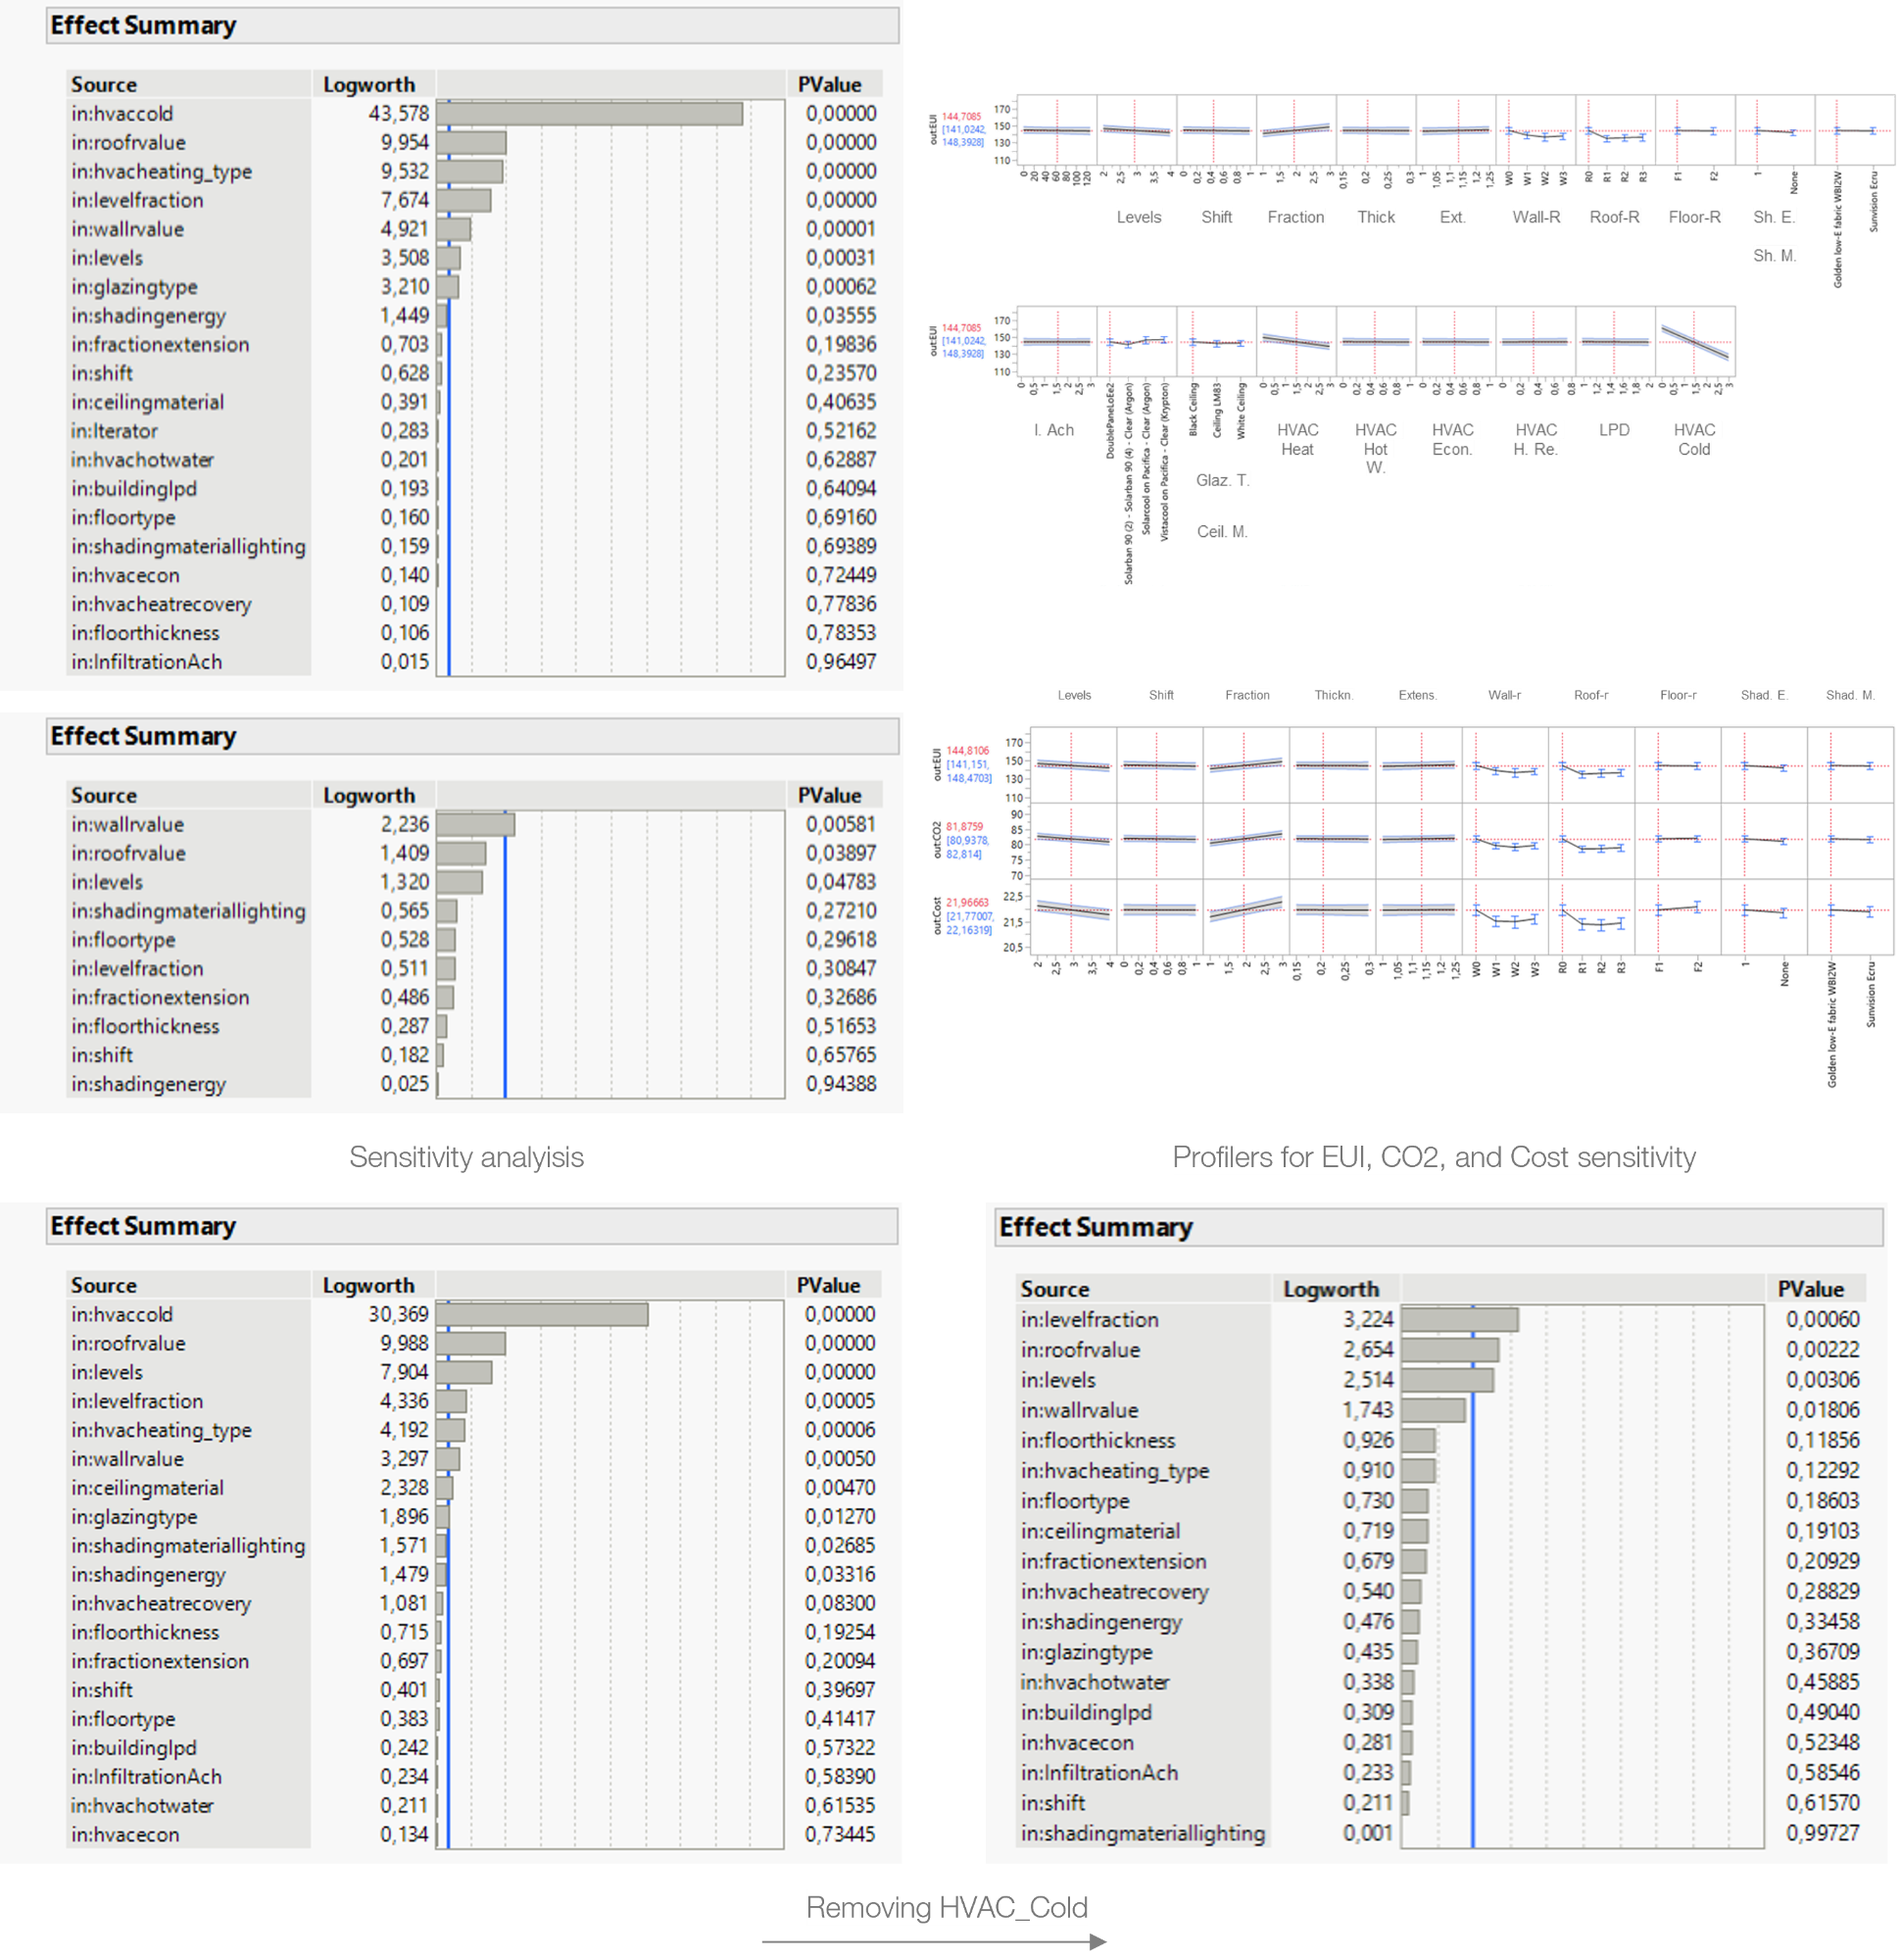
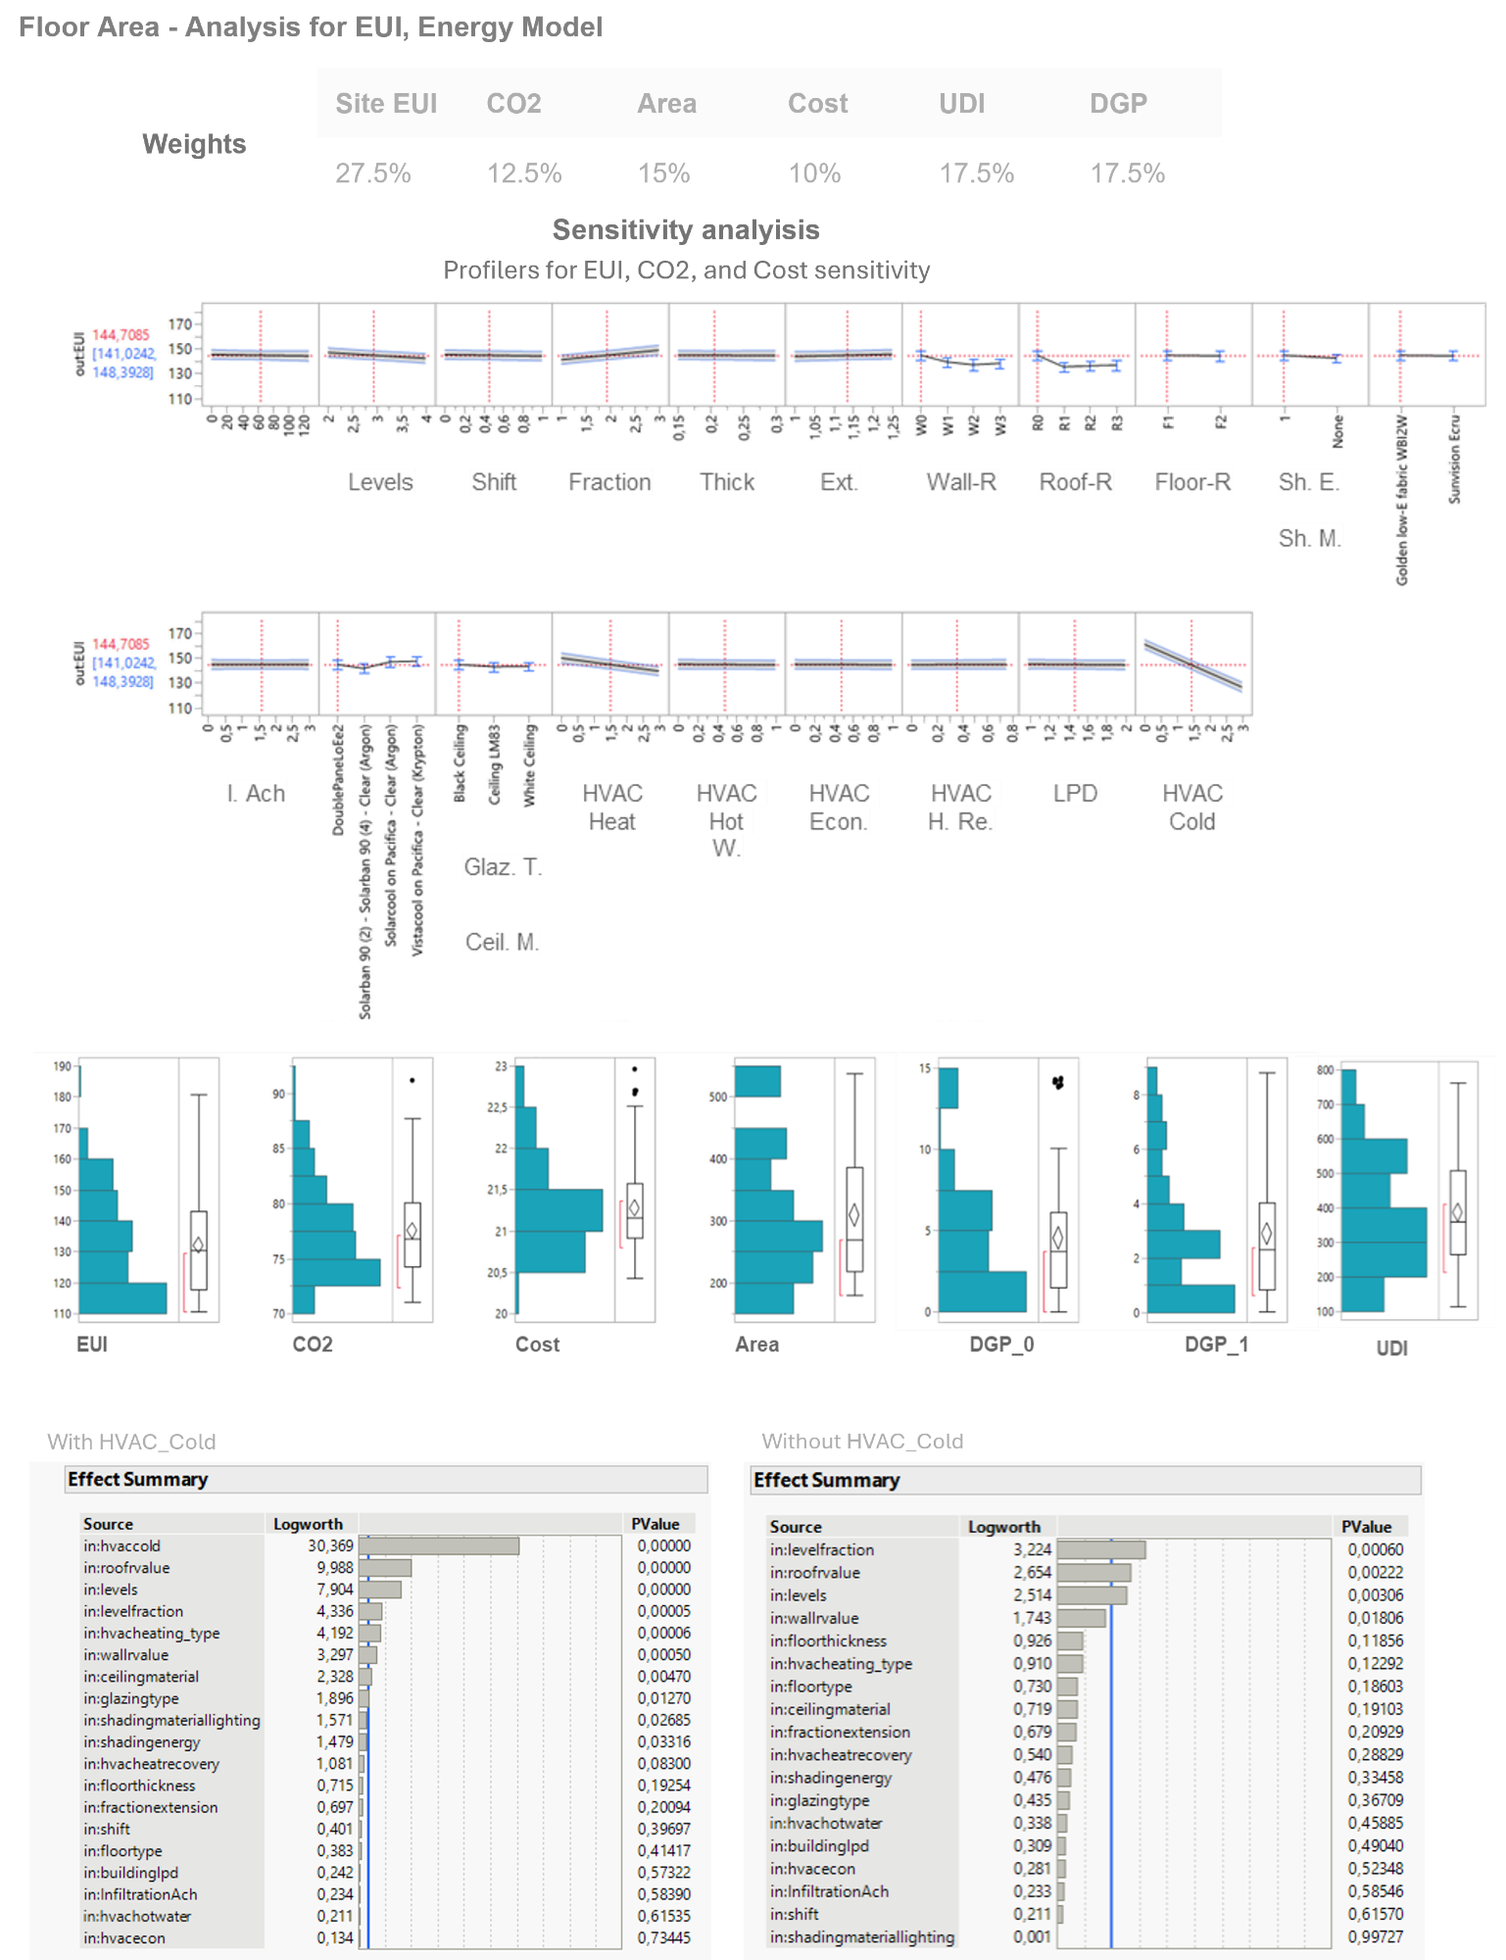
Update Design Space Exploration images and remove rainwater section
- Remove retrofitting strategy heading image
- Add three envelope layer GIFs side by side after weather files
- Add building geometry settings image
- Replace design space construction and results images
- Remove rainwater harvesting section

diff --git a/_sass/_projects_sidebar.scss b/_sass/_projects_sidebar.scss
@@ -209,6 +209,30 @@ img, figure img, .img-fluid {
   box-shadow: none !important;
 }
 
+.image-row-3 {
+  display: flex;
+  flex-direction: row;
+  align-items: stretch;
+  gap: 1rem;
+  width: 100%;
+  margin: 1.5rem 0;
+
+  .image-row-3__item {
+    flex: 1 1 33.333%;
+    min-width: 0;
+    width: 33.333%;
+  }
+
+  figure,
+  picture,
+  img {
+    width: 100% !important;
+    max-width: 100% !important;
+    height: auto;
+    display: block;
+  }
+}
+
 .iecc-image-pair {
   display: flex;
   flex-direction: row;

diff --git a/_projects/1_project.md b/_projects/1_project.md
@@ -40,17 +40,8 @@ The project focuses on designing an exploration for retrofitting 792 Donald Lee 
 
 <div class="row mt-4">
     <div class="col-sm mt-3 mt-md-0">
-        {% include figure.liquid loading="eager" path="assets/img/retrofitting-strategy.png" title="Retrofitting Strategy Statement" class="img-fluid rounded" %}
-    </div>
-</div>
-
-<div class="row mt-4">
-    <div class="col-sm mt-3 mt-md-0">
         {% include figure.liquid loading="eager" path="assets/img/retrofitting-table.png" title="Retrofitting components and upgrades" class="img-fluid rounded" %}
     </div>
-</div>
-<div class="caption">
-    Comprehensive retrofitting strategy showing shell-level and core-level upgrades with their purposes and enhancements.
 </div>
 
 ---
@@ -78,15 +69,21 @@ The project focuses on designing an exploration for retrofitting 792 Donald Lee 
     </div>
 </div>
 
-<div class="row mt-4">
-    <div class="col-sm mt-3 mt-md-0">
-        {% include figure.liquid loading="eager" path="assets/img/assumptions-envelope.png" title="Envelope and geometry settings" class="img-fluid rounded" %}
-    </div>
+<div class="image-row-3">
+<div class="image-row-3__item">
+{% include figure.liquid loading="eager" path="assets/img/assumption-layer-1.gif" title="Envelope layer assembly 1" class="img-fluid rounded" %}
+</div>
+<div class="image-row-3__item">
+{% include figure.liquid loading="eager" path="assets/img/assumption-layer-2.gif" title="Envelope layer assembly 2" class="img-fluid rounded" %}
+</div>
+<div class="image-row-3__item">
+{% include figure.liquid loading="eager" path="assets/img/assumption-layer-3.gif" title="Envelope layer assembly 3" class="img-fluid rounded" %}
+</div>
 </div>
 
 <div class="row mt-4">
     <div class="col-sm mt-3 mt-md-0">
-        {% include figure.liquid loading="eager" path="assets/img/assumptions-hvac.png" title="Zone and HVAC settings" class="img-fluid rounded" %}
+        {% include figure.liquid loading="eager" path="assets/img/assumption-geometry.png" title="Building geometry settings" class="img-fluid rounded" %}
     </div>
 </div>
 
@@ -106,23 +103,13 @@ The project focuses on designing an exploration for retrofitting 792 Donald Lee 
 
 <div class="row mt-4">
     <div class="col-sm mt-3 mt-md-0">
+        {% include figure.liquid loading="eager" path="assets/img/results-performance.gif" title="Performance results" class="img-fluid rounded" %}
+    </div>
+</div>
+
+<div class="row mt-4">
+    <div class="col-sm mt-3 mt-md-0">
         {% include figure.liquid loading="eager" path="assets/img/results-sensitivity.png" title="Sensitivity analysis results" class="img-fluid rounded" %}
-    </div>
-</div>
-
-<div class="row mt-4">
-    <div class="col-sm mt-3 mt-md-0">
-        {% include figure.liquid loading="eager" path="assets/img/results-performance.png" title="Performance results" class="img-fluid rounded" %}
-    </div>
-</div>
-
----
-
-## Rain Water Harvesting
-
-<div class="row mt-4">
-    <div class="col-sm mt-3 mt-md-0">
-        {% include figure.liquid loading="eager" path="assets/img/rainwater-harvesting.png" title="Rainwater harvesting analysis" class="img-fluid rounded" %}
     </div>
 </div>
 
